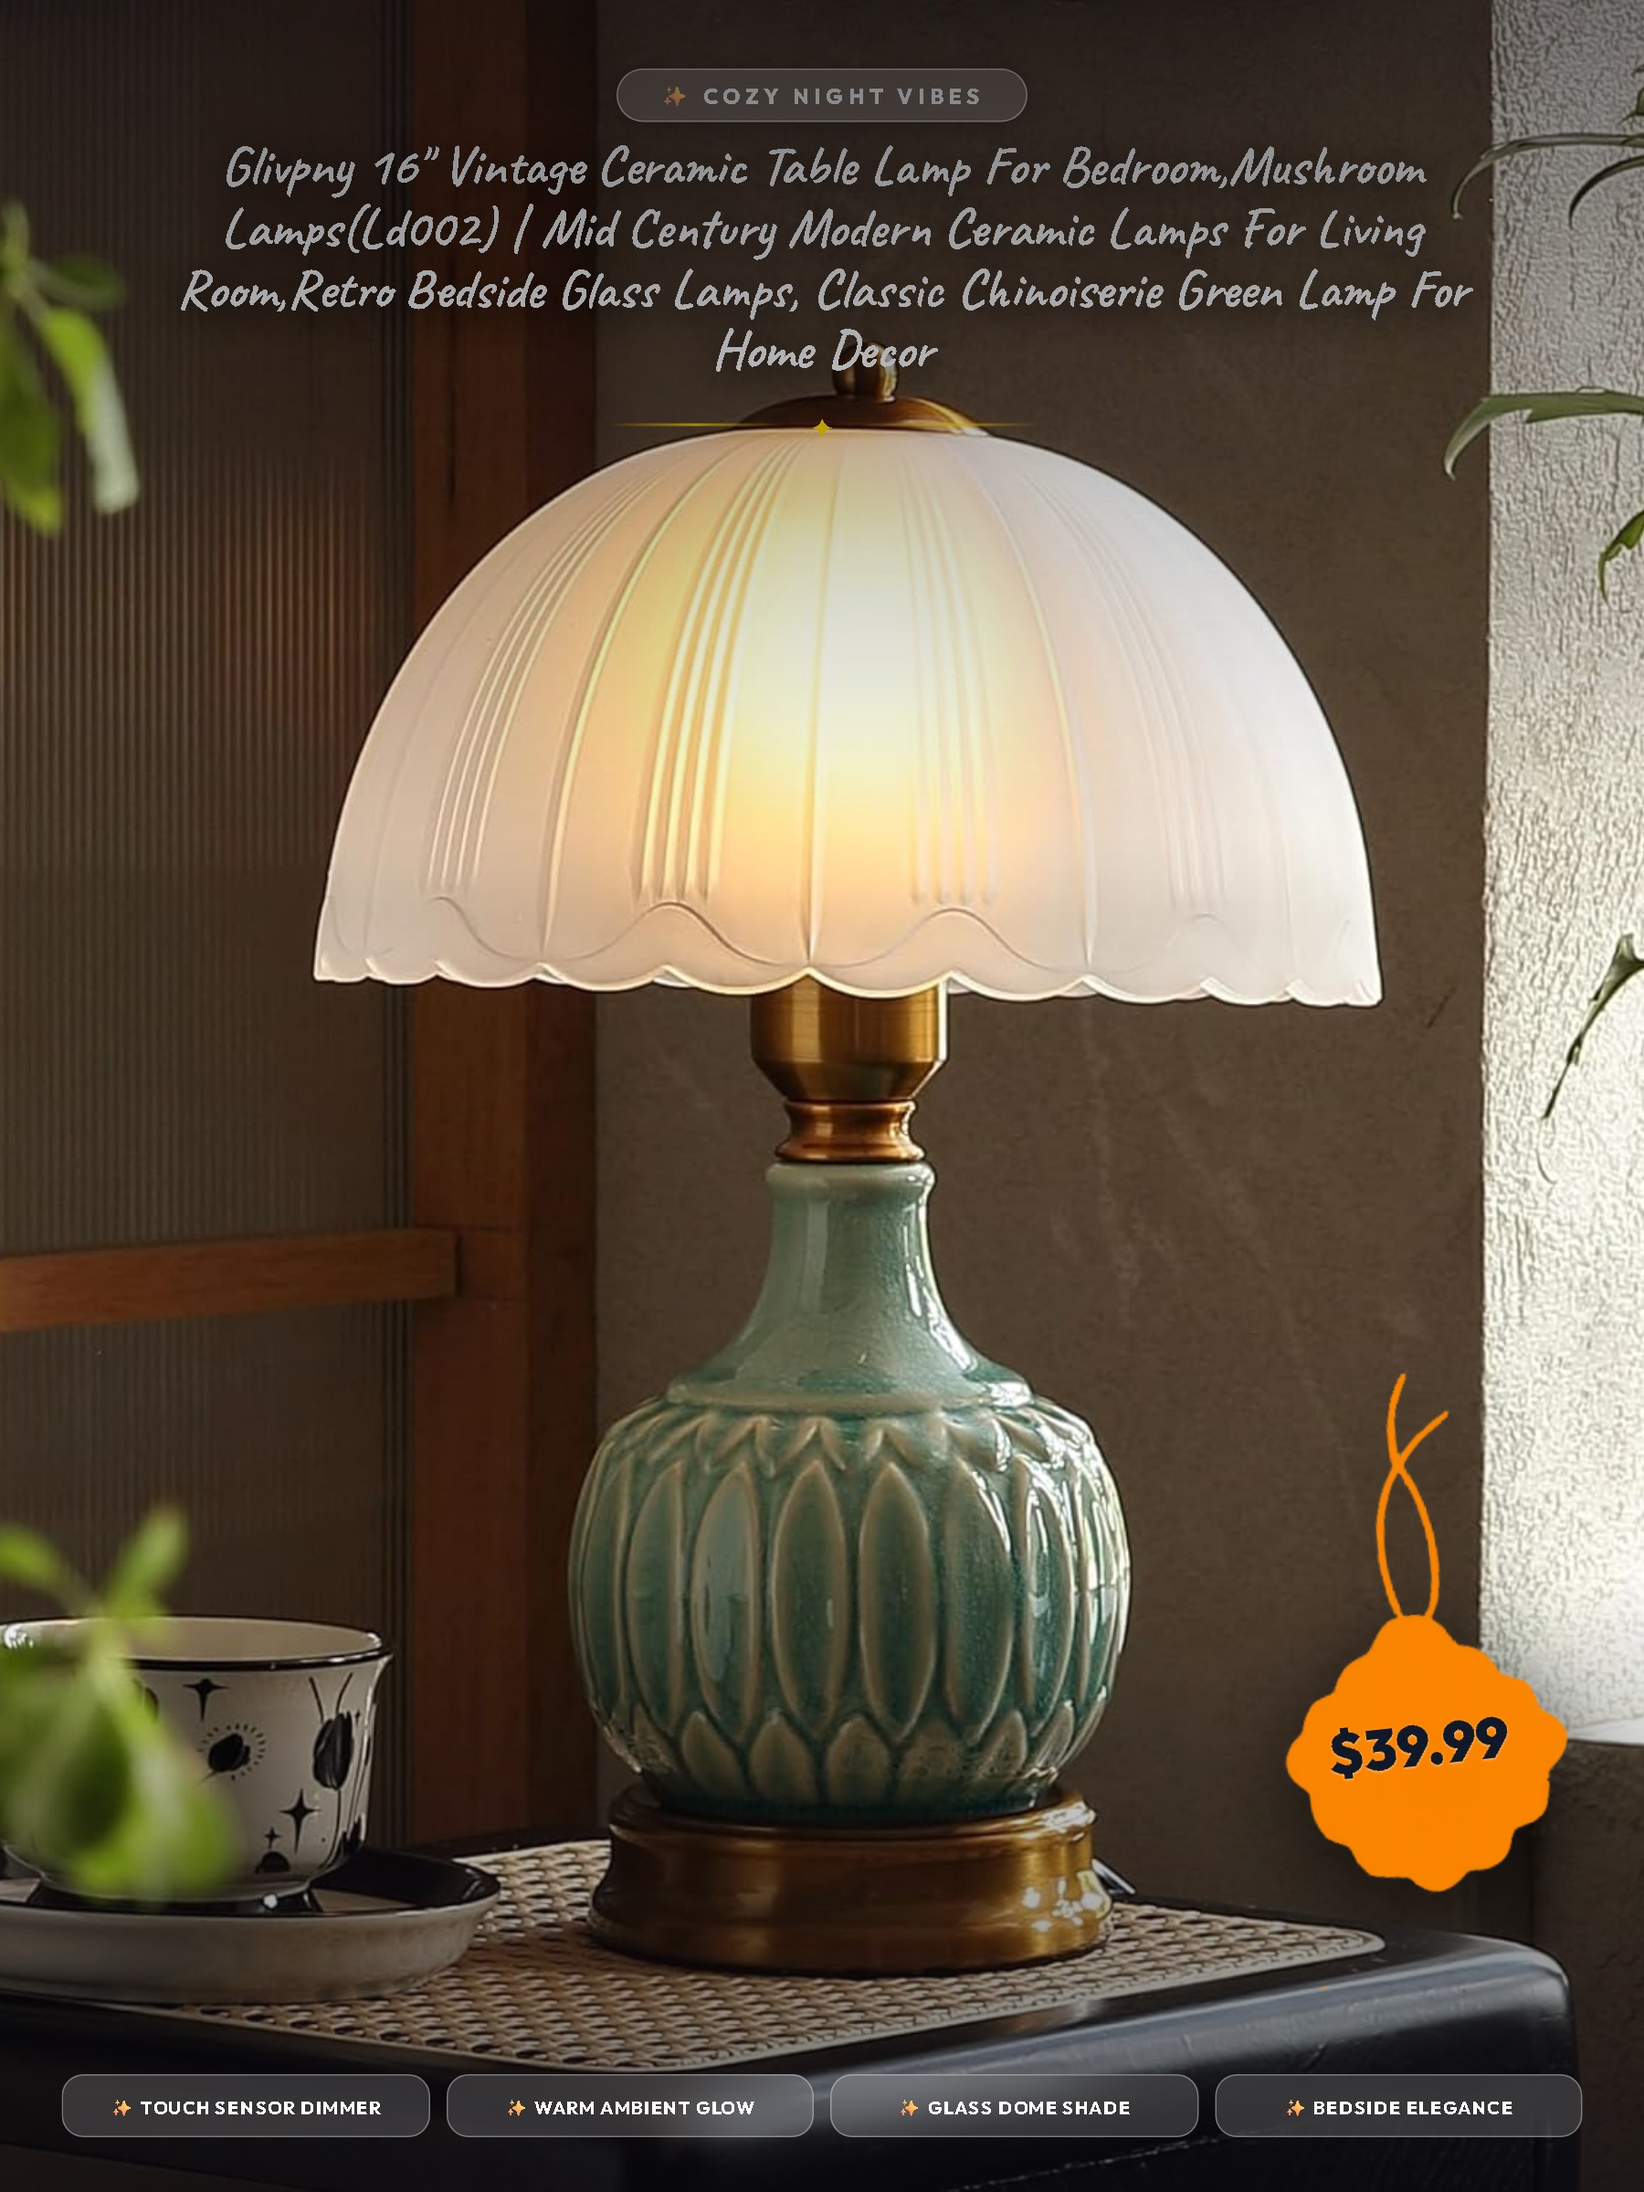
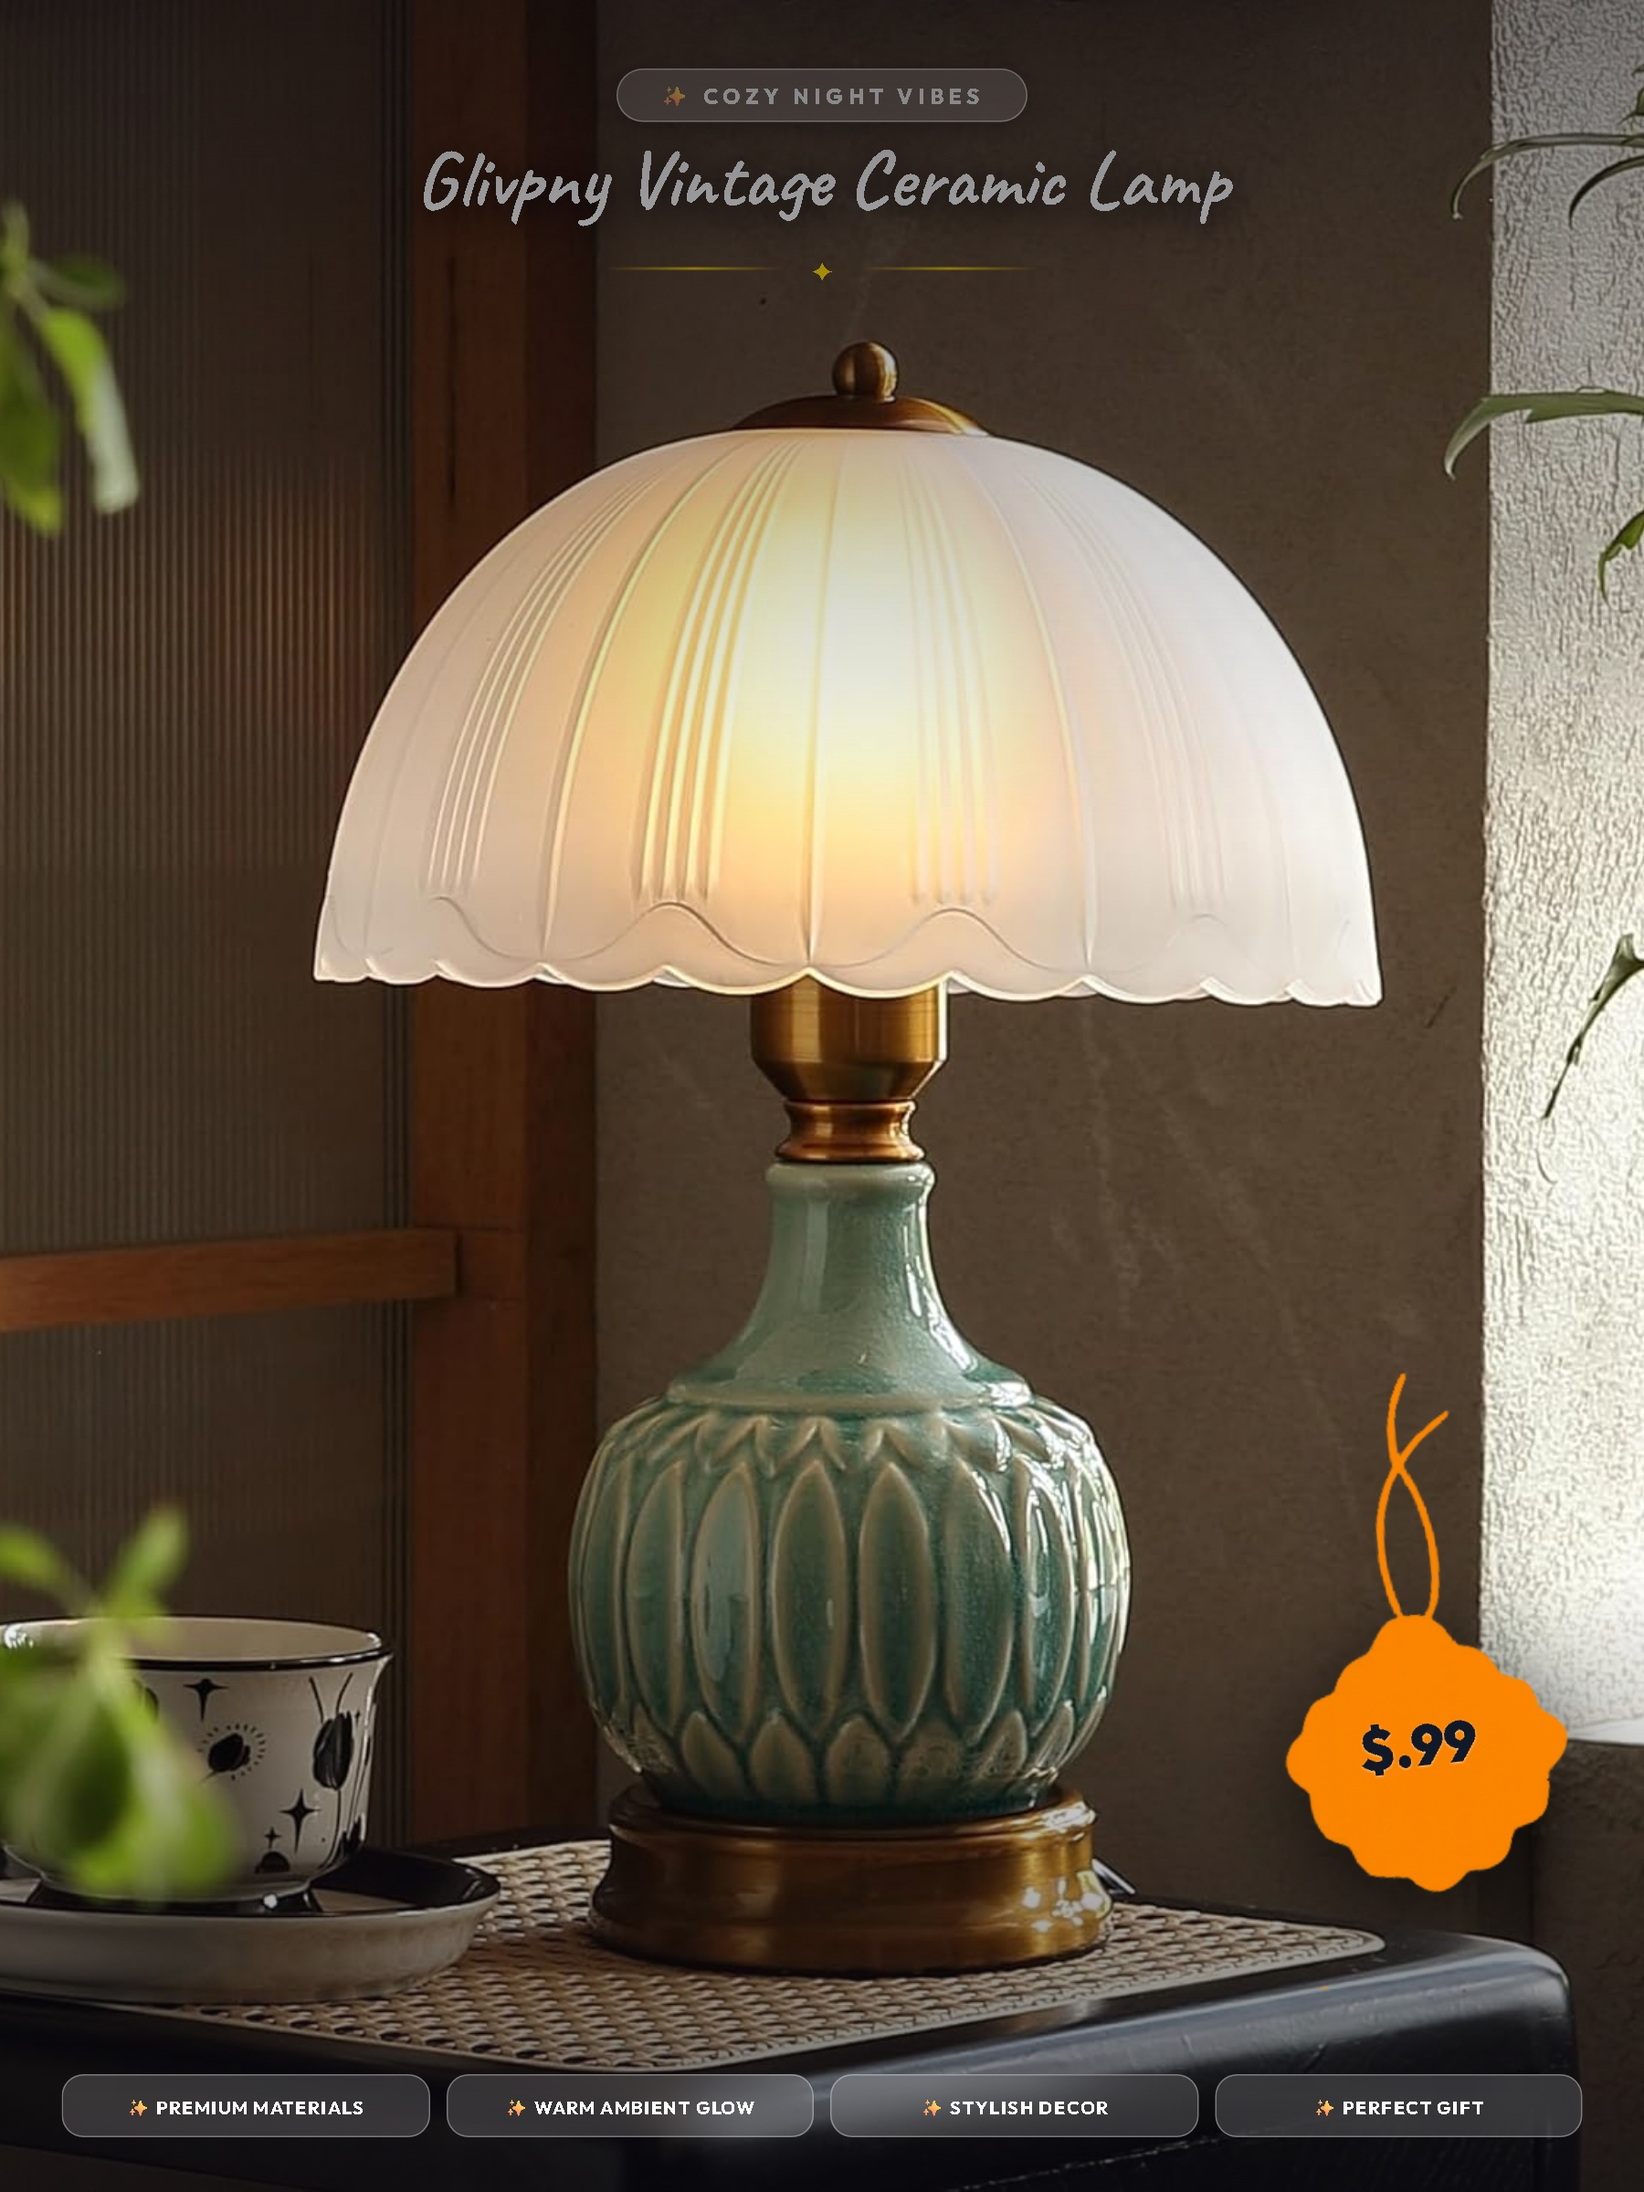
Update B0D5YNHXQ7 hook image and index.html card with clean 35-char title

diff --git a/index.html b/index.html
@@ -971,10 +971,10 @@
                 <div class="card-img-container">
                     <div class="card-price-tag">$39.99</div>
                     <div class="card-rating">★ 4.8</div>
-                    <img src="./focus_product_B0D5YNHXQ7_hook.jpg?v=1785948383" alt="Glivpny 16" Vintage Ceramic Table Lamp for Bedroom,Mushroom Lamps(LD002) | Mid Century Modern Ceramic Lamps for Living Room,Retro Bedside Glass Lamps, Classic Chinoiserie Green Lamp for Home Decor">
+                    <img src="./focus_product_B0D5YNHXQ7_hook.jpg?v=1785950000" alt="Glivpny Vintage Ceramic Mushroom Lamp">
                 </div>
                 <div class="card-content">
-                    <h2>Glivpny 16" Vintage Ceramic Table Lamp for Bedr...</h2>
+                    <h2>Glivpny Vintage Ceramic Mushroom Lamp</h2>
                     <div class="card-cta">
                         <span>View Details</span>
                         <span class="arrow">→</span>
